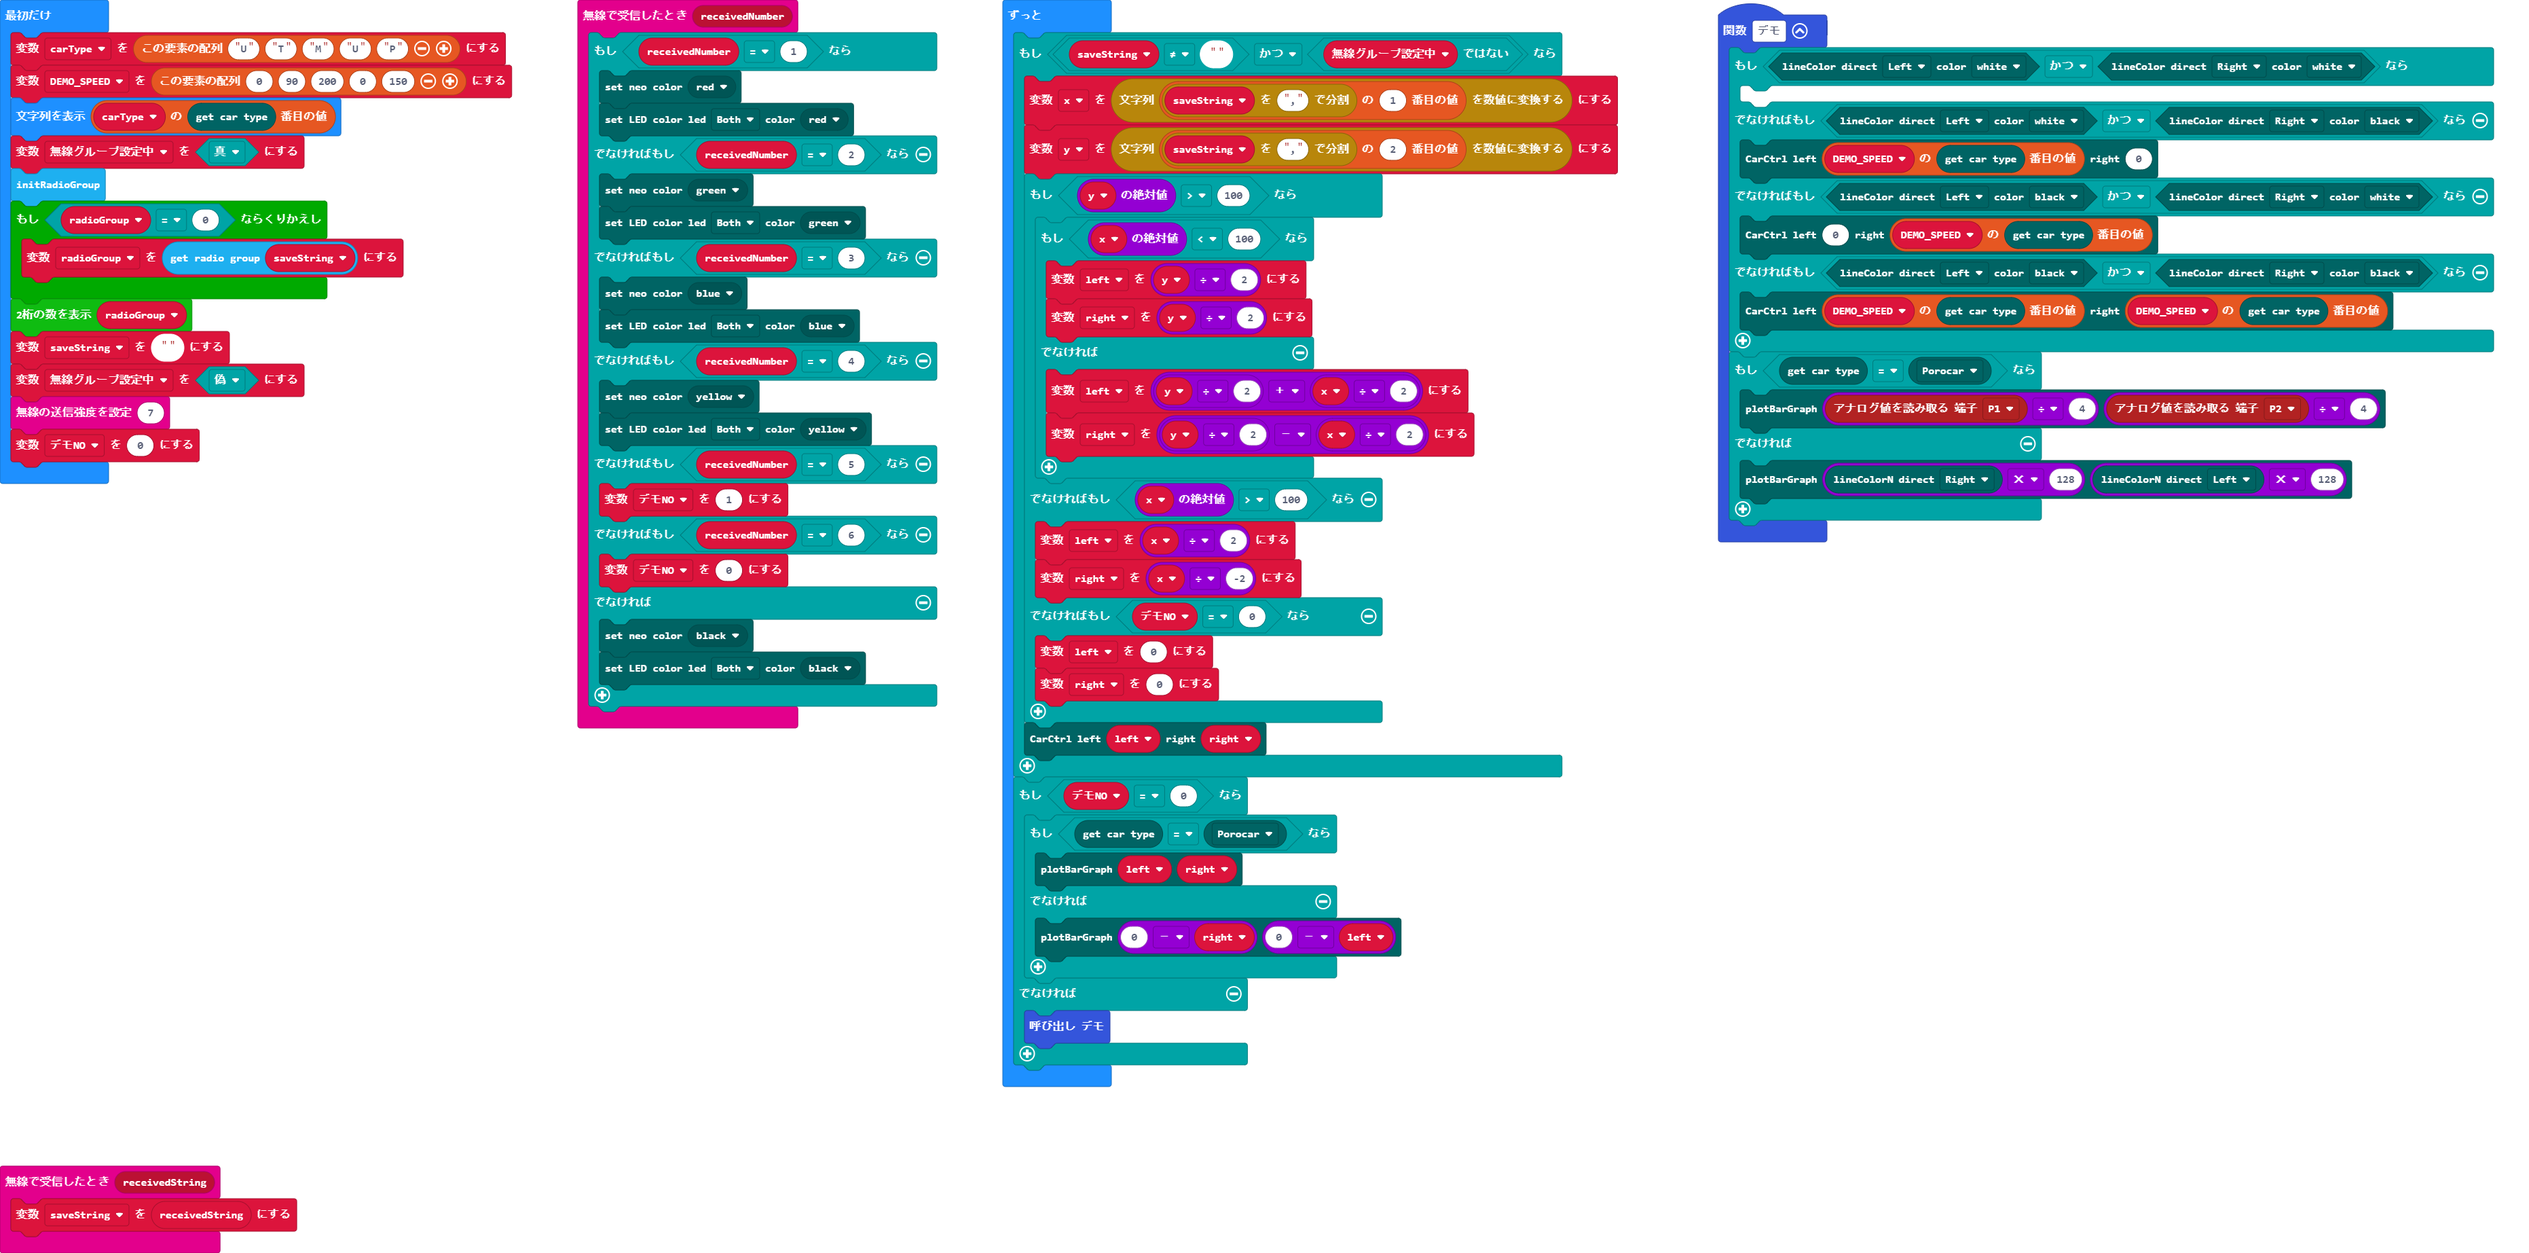
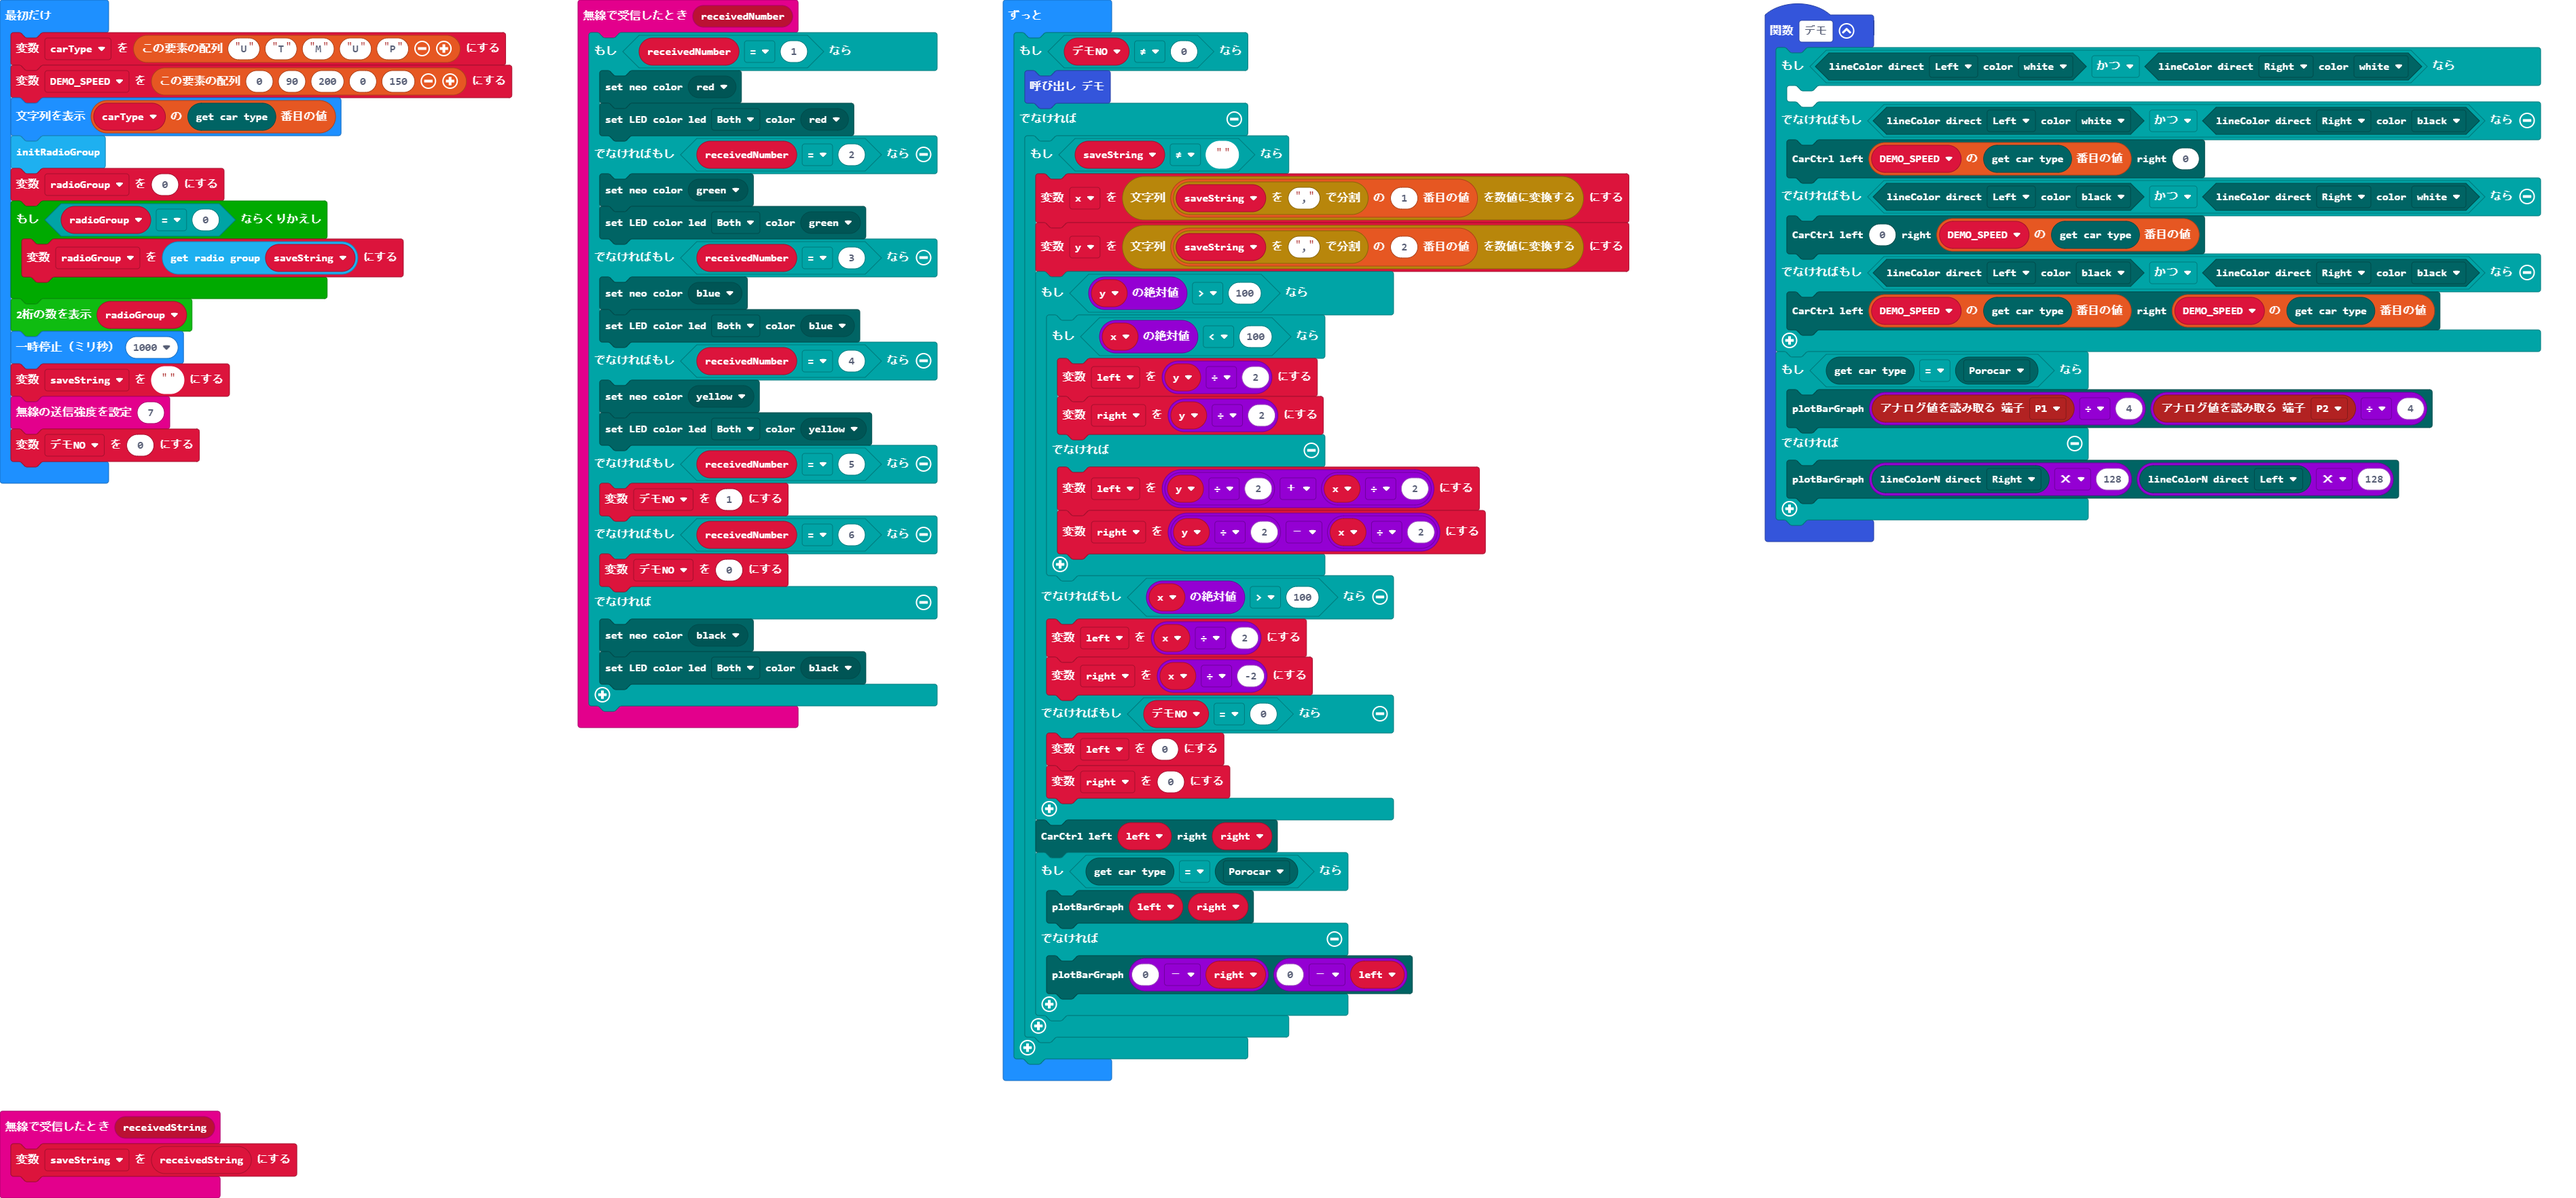
更新 main.blocks, main.ts

Changed region(s): [[0.0, 0.0, 0.9965, 0.9037], [0.0, 0.9037, 0.1246, 0.9972]]

diff --git a/main.ts b/main.ts
@@ -45,49 +45,48 @@ let y = 0
 let x = 0
 let デモNO = 0
 let saveString = ""
-let radioGroup = 0
 let DEMO_SPEED: number[] = []
 let carType2 = ["U", "T", "M", "U", "P"]
 DEMO_SPEED = [0, 90, 200, 0, 150]
 basic.showString("" + (carType2[carcotrol.getCarType()]))
-let 無線グループ設定中 = true
 getradiogroup.initRadioGroup()
+let radioGroup = 0
 while (radioGroup == 0) {
     radioGroup = getradiogroup.getRadioGroup(saveString)
 }
 watchfont.showNumber2(radioGroup)
+basic.pause(1000)
 saveString = ""
-無線グループ設定中 = false
 radio.setTransmitPower(7)
 デモNO = 0
 basic.forever(function () {
-    if (saveString != "" && !(無線グループ設定中)) {
-        x = parseFloat(saveString.split(",")[1])
-        y = parseFloat(saveString.split(",")[2])
-        if (Math.abs(y) > 100) {
-            if (Math.abs(x) < 100) {
-                left = y / 2
-                right = y / 2
-            } else {
-                left = y / 2 + x / 2
-                right = y / 2 - x / 2
-            }
-        } else if (Math.abs(x) > 100) {
-            left = x / 2
-            right = x / -2
-        } else if (デモNO == 0) {
-            left = 0
-            right = 0
-        }
-        carcotrol.carCtrl(left, right)
-    }
-    if (デモNO == 0) {
-        if (carcotrol.getCarType() == carcotrol.car(carType.Porocar)) {
-            carcotrol.plotBarGraph(left, right)
-        } else {
-            carcotrol.plotBarGraph(0 - right, 0 - left)
-        }
-    } else {
+    if (デモNO != 0) {
         デモ()
+    } else {
+        if (saveString != "") {
+            x = parseFloat(saveString.split(",")[1])
+            y = parseFloat(saveString.split(",")[2])
+            if (Math.abs(y) > 100) {
+                if (Math.abs(x) < 100) {
+                    left = y / 2
+                    right = y / 2
+                } else {
+                    left = y / 2 + x / 2
+                    right = y / 2 - x / 2
+                }
+            } else if (Math.abs(x) > 100) {
+                left = x / 2
+                right = x / -2
+            } else if (デモNO == 0) {
+                left = 0
+                right = 0
+            }
+            carcotrol.carCtrl(left, right)
+            if (carcotrol.getCarType() == carcotrol.car(carType.Porocar)) {
+                carcotrol.plotBarGraph(left, right)
+            } else {
+                carcotrol.plotBarGraph(0 - right, 0 - left)
+            }
+        }
     }
 })
